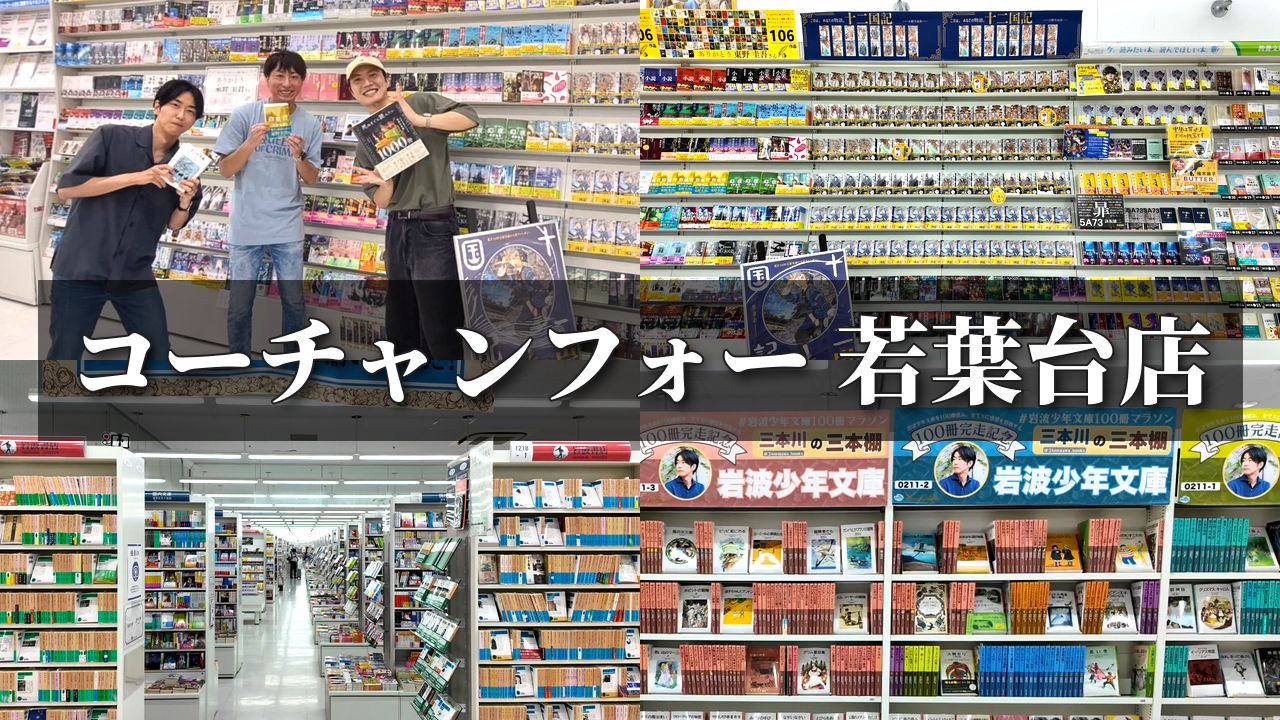
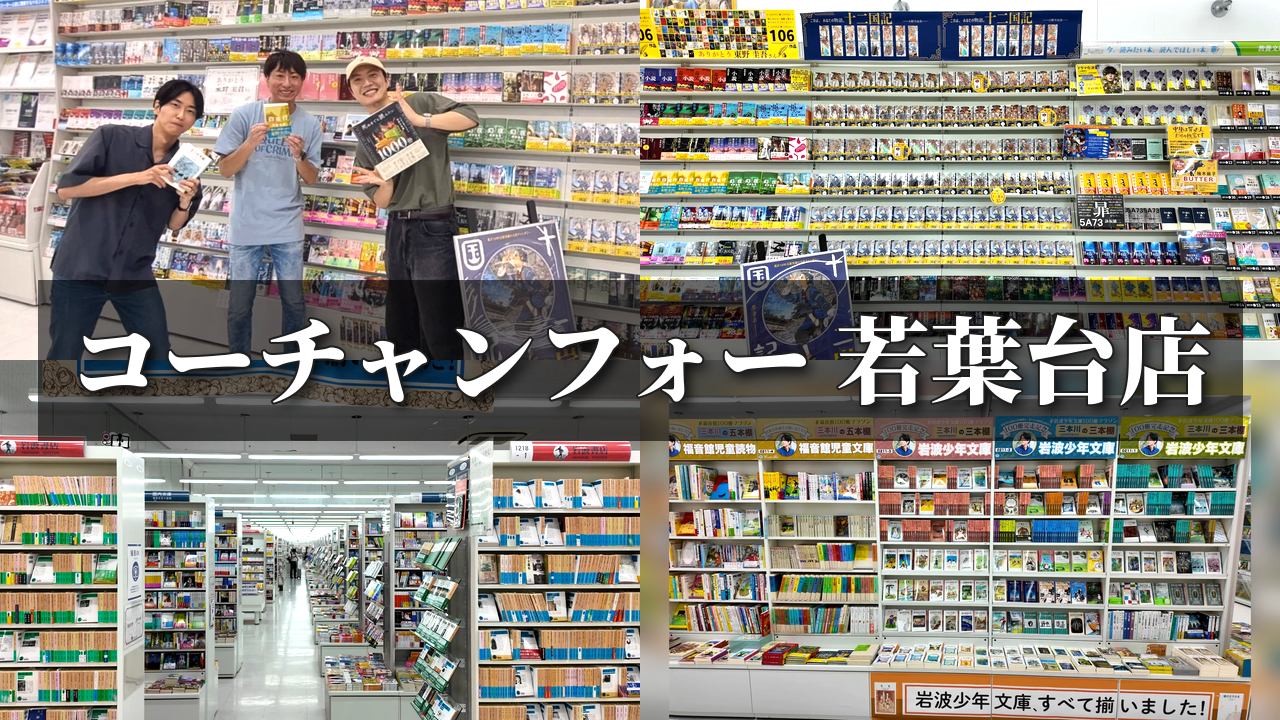
コーチャンフォー：右下に三本川さんと「すべて揃いました！」の看板を両方入れる
切り抜き範囲が写真の外にはみ出す指定に対応（はみ出し部分はぼかした写真で埋める）

Claude-Session: https://claude.ai/code/session_01PgBssd9mgKDSdASv1kBNHd

Changed region(s): [[0.5, 0.4889, 1.0, 1.0], [0.5312, 0.4889, 0.5625, 0.5194]]

diff --git a/thumbnail/make_thumbnail.py b/thumbnail/make_thumbnail.py
@@ -9,6 +9,7 @@ config.json の例:
     {"title": "旅と暮らしの本屋 アンダンテ",
      "crops": {"2": [0.12, 0.27, 0.853, 1.0]}}
     crops は写真ごとの切り抜き範囲（元画像に対する割合: 左, 上, 右, 下）。指定なしは中央基準
+    0〜1 の外を指定すると写真を縮めて入れ、はみ出した部分はぼかした写真で埋める
 出力: フォルダ内の thumbnail.png（1280x720）。作り直すたびに上書きする
 """
 import json
@@ -40,6 +41,18 @@ def cover(img: Image.Image, w: int, h: int) -> Image.Image:
     return img.crop((l, t, l + w, t + h))
 
 
+def crop_with_fill(img: Image.Image, box) -> Image.Image:
+    """割合で切り抜く。範囲が写真の外にはみ出した部分は、ぼかした写真で埋める"""
+    l, t, r, b = (round(v * n) for v, n in zip(box, (img.width, img.height) * 2))
+    if l >= 0 and t >= 0 and r <= img.width and b <= img.height:
+        return img.crop((l, t, r, b))
+    w, h = r - l, b - t
+    bg = cover(img, w, h).filter(ImageFilter.GaussianBlur(40))
+    bg = ImageEnhance.Brightness(bg).enhance(1.05)
+    bg.paste(img, (-l, -t))
+    return bg
+
+
 def placeholder(n: int, w: int, h: int) -> Image.Image:
     img = Image.new("RGB", (w, h), (90 + n * 20, 80 + n * 15, 70 + n * 10))
     ImageDraw.Draw(img).text((20, 20), f"PHOTO {n}", fill="white",
@@ -59,9 +72,7 @@ def build(folder: Path) -> Path:
         if p:
             img = Image.open(p).convert("RGB")
             if i in crops:
-                l, t, r, b = crops[i]
-                img = img.crop((round(l * img.width), round(t * img.height),
-                                round(r * img.width), round(b * img.height)))
+                img = crop_with_fill(img, crops[i])
             tile = cover(img, cw, ch)
         else:
             tile = placeholder(i, cw, ch)
